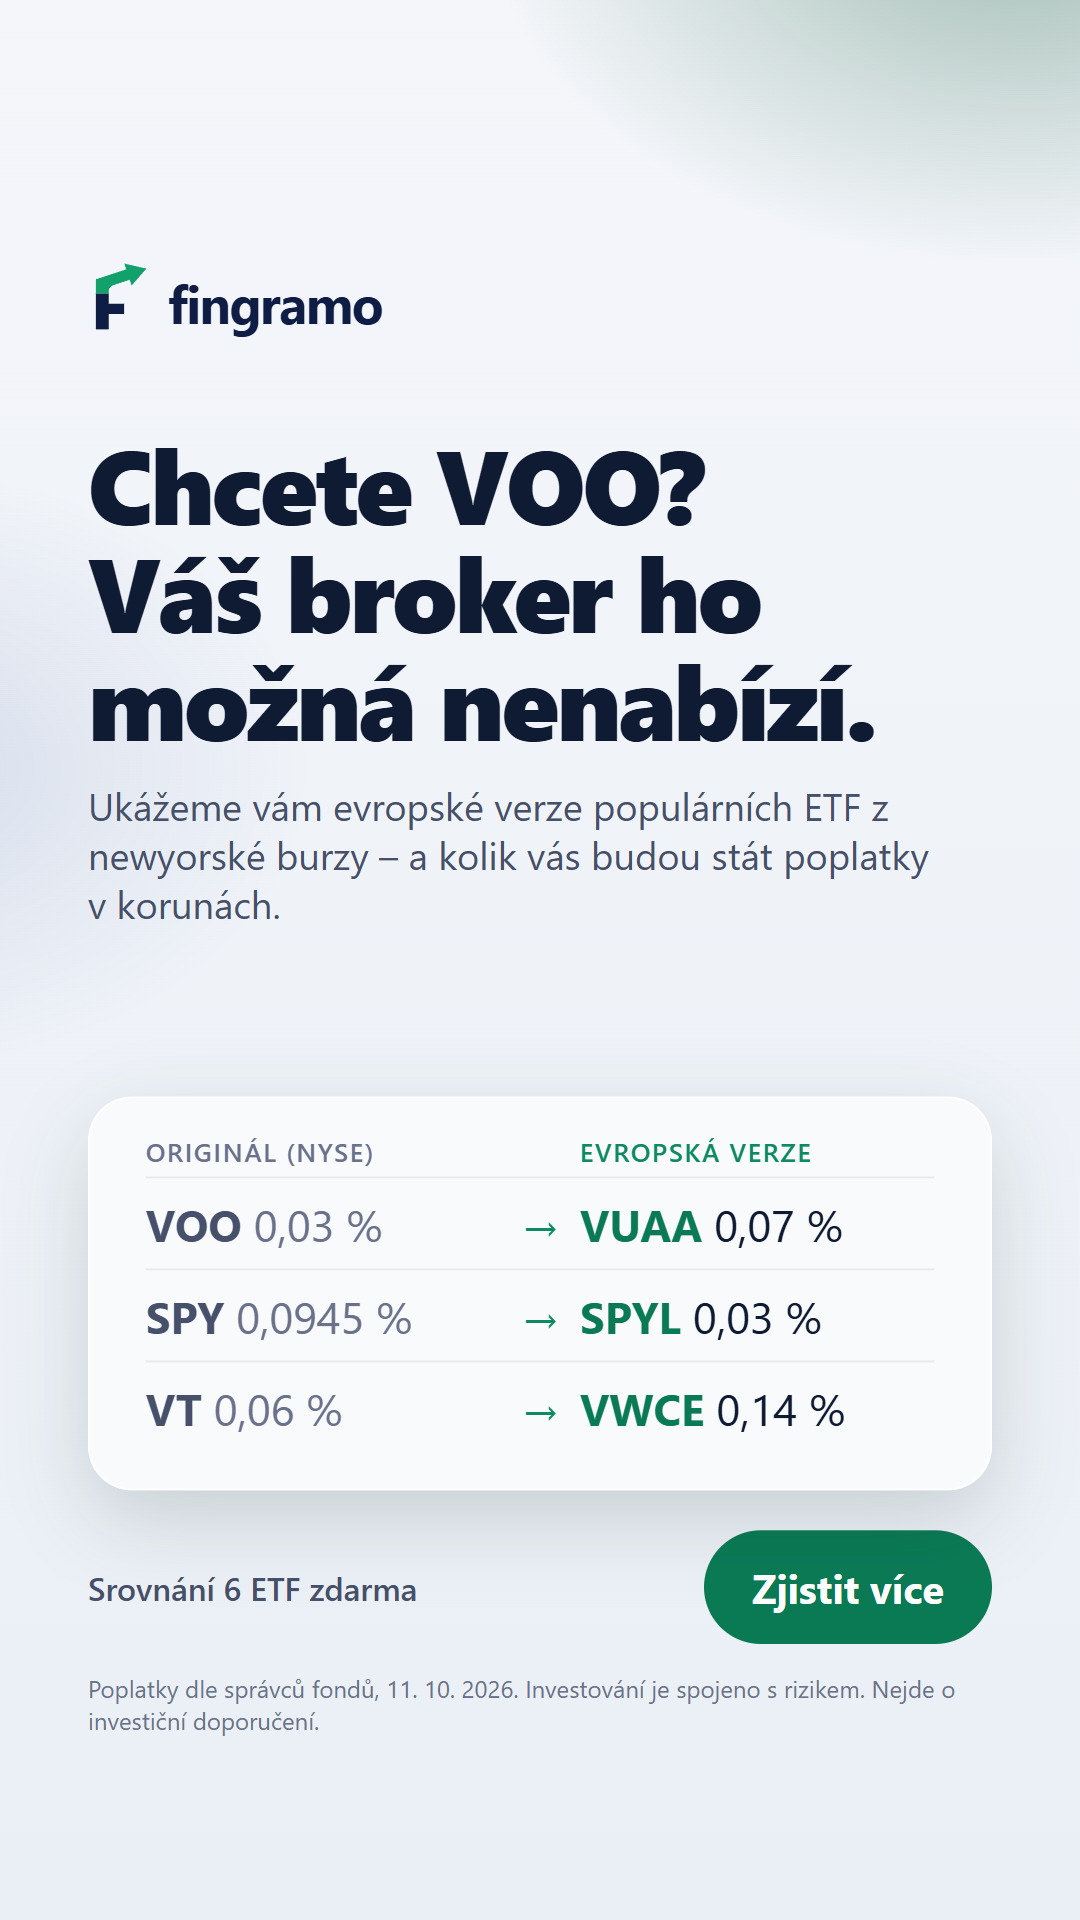
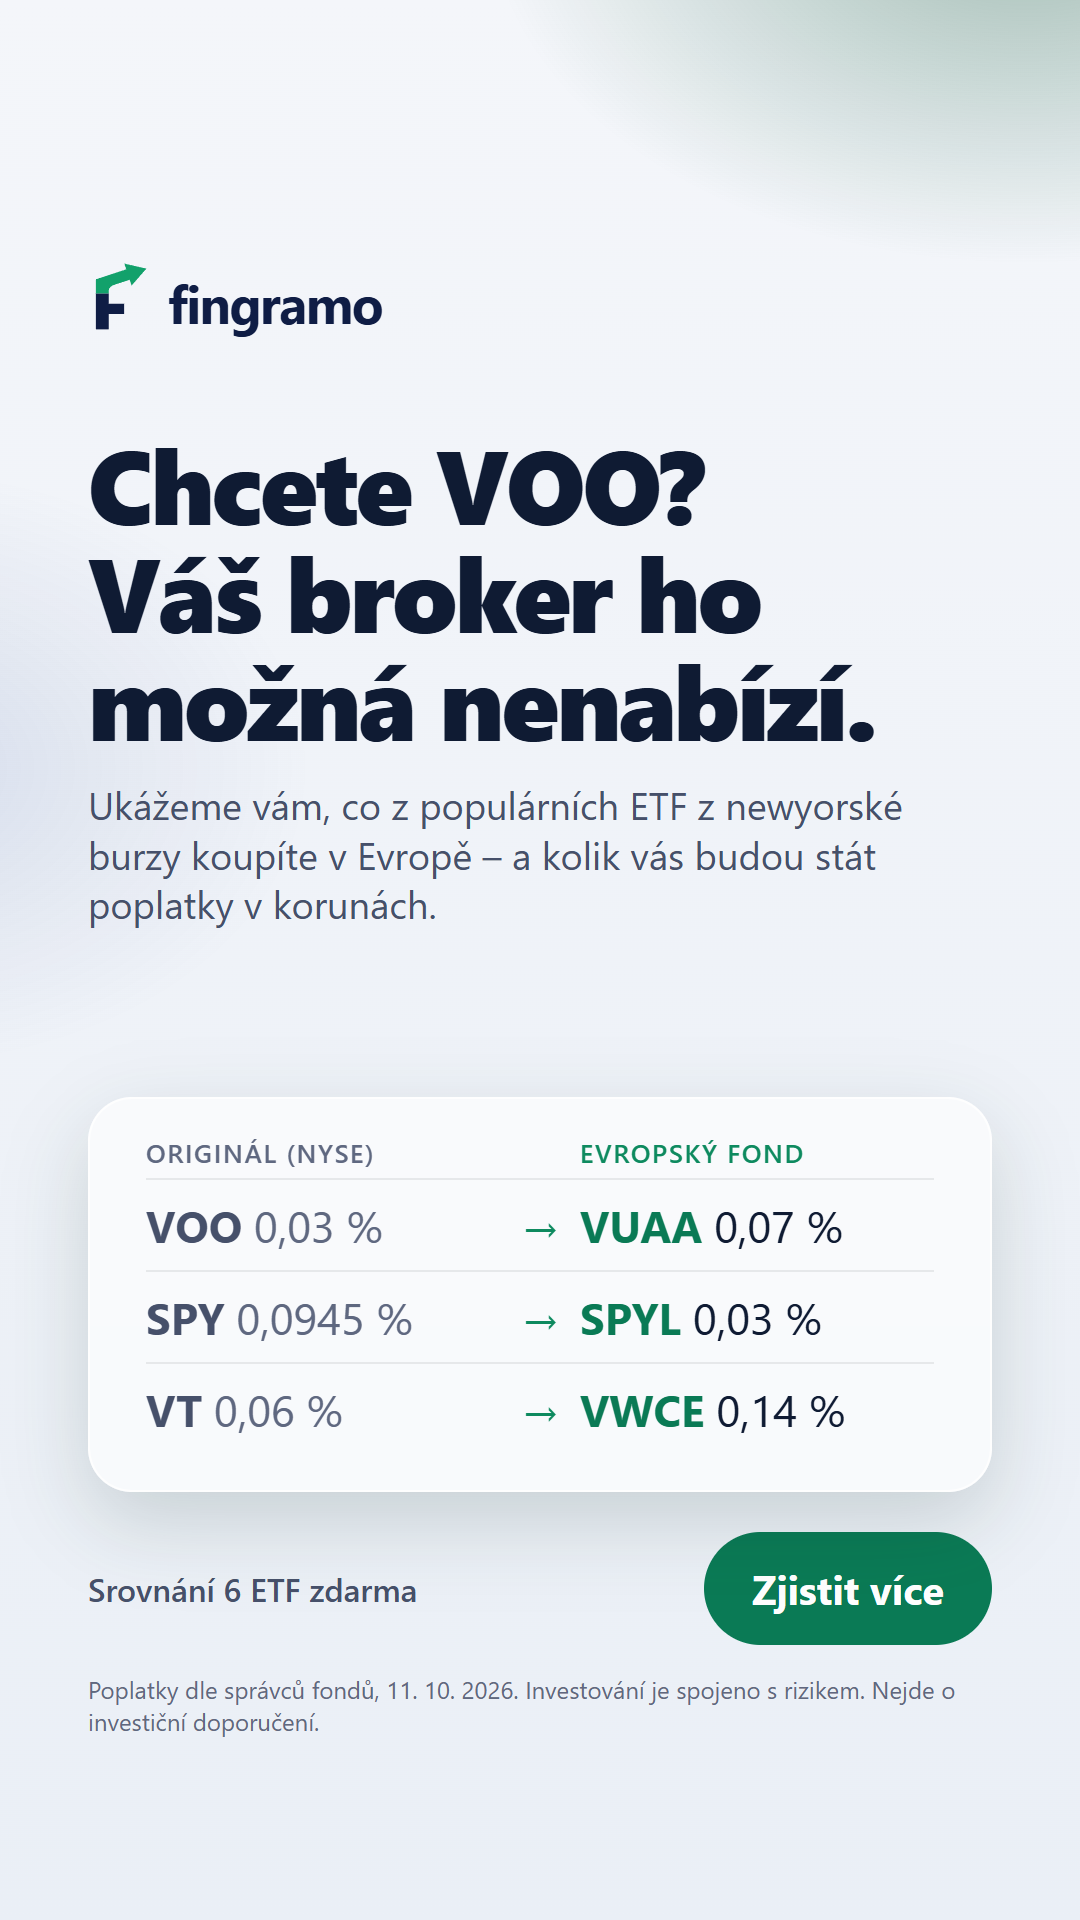
style: reklamy a OG obrázek – „Evropský fond“ místo „Evropská verze“ (VT → VWCE je alternativa, D39), OG „verzí a alternativ“, reklama B 4:5 bez velké mezery pod podtitulem; všech 5 obrázků znovu vykresleno

diff --git a/ads/src/ad.html b/ads/src/ad.html
@@ -52,6 +52,7 @@
   .pill { background: var(--c-green-800); color: #fff; font-size: 40px; font-weight: 700; padding: 30px 48px; border-radius: 999px; }
   .free { font-size: 32px; color: var(--c-ink-muted); font-weight: 600; }
   .legal { font-size: 24px; color: var(--c-ink-faint); margin: 28px 0 0; }
+  .ad:not(.f9x16) .v-b.headline { margin-top: auto; }
   .v-b { display: none; }
   body.b .v-a { display: none; }
   body.b .v-b { display: block; }
@@ -67,16 +68,16 @@
     <!-- A: pain angle -->
     <div class="v-a">
       <h1>Chcete VOO?<br/>Váš broker ho možná nenabízí.</h1>
-      <p class="sub">Ukážeme vám evropské verze populárních ETF z newyorské burzy – a kolik vás budou stát poplatky v korunách.</p>
+      <p class="sub">Ukážeme vám, co z populárních ETF z newyorské burzy koupíte v Evropě – a kolik vás budou stát poplatky v korunách.</p>
     </div>
     <!-- B: numbers angle -->
-    <div class="v-b">
+    <div class="v-b headline">
       <h1>Stejný index S&amp;P&nbsp;500.<br/>Jiný poplatek.</h1>
       <p class="sub">Kolik to dělá v korunách u vaší částky? Spočítejte si to za 10 vteřin.</p>
     </div>
 
     <div class="card v-a" id="pairs">
-      <div class="label"><span>Originál (NYSE)</span><span></span><span>Evropská verze</span></div>
+      <div class="label"><span>Originál (NYSE)</span><span></span><span>Evropský fond</span></div>
     </div>
     <div class="card v-b">
       <div class="duel" id="duel"></div>

diff --git a/ads/src/og.html b/ads/src/og.html
@@ -48,7 +48,7 @@
         <span>fingramo</span>
       </div>
       <h1>Stejný index,<br />jiný poplatek.</h1>
-      <p class="sub">Kolik vás stojí ETF z newyorské burzy v korunách? Srovnání 6 fondů a jejich evropských verzí zdarma.</p>
+      <p class="sub">Kolik vás stojí ETF z newyorské burzy v korunách? Srovnání 6 fondů a jejich evropských verzí a alternativ zdarma.</p>
     </div>
     <div class="card">
       <p class="cap-top">Stejný index S&amp;P 500</p>

diff --git a/ads/README.md b/ads/README.md
@@ -1,6 +1,7 @@
 # Reklamy – Meta (Instagram / Facebook), mobil
 
 **Stav:** texty SCHVÁLENY Mikym 11. 10. 2026 (D18). Vizuály hotové (11. 10.): `ad-a-4x5.png`, `ad-a-9x16.png`, `ad-b-4x5.png`, `ad-b-9x16.png`. Zdroj: `ads/src/ad.html` – stejné tokeny jako stránka, čísla načtená z `data/etf.json` (žádné ručně opsané). Render: Playwright, 1080×1350 a 1080×1920.
+**Úprava 12. 10. (na Mikyho pokyn):** vizuál A – sloupec „Evropský fond“ a podtitul „Ukážeme vám, co z populárních ETF z newyorské burzy koupíte v Evropě…“; vizuál B 4:5 – volné místo rozdělené nad nadpis a nad kartu (dřív velká mezera pod podtitulem); OG – „evropských verzí a alternativ“. Texty kampaně (primární text, titulek) beze změny.
 **Náhled pro sdílení (OG, D36):** `ads/src/og.html` → `public/og.png` (1200×630), stejný přístup a data, navazuje na verzi B.
 Kanál a úhly: D6. Tón: vykání (D7). Žádné sliby výnosů, každé číslo ze `data/SOURCES.md`.
 
@@ -12,7 +13,7 @@ Obě verze nabízejí **totéž** (zdarma srovnání ETF + poplatky v Kč). Liš
 
 | Prvek | Text |
 |---|---|
-| **Vizuál (4:5, 1080×1350)** | Velký nápis: **„Chcete VOO? Váš broker ho možná nenabízí."** · karta: VOO, SPY, VT → jejich evropské verze s poplatky · dole „Srovnání 6 ETF zdarma" · upozornění na riziko. *(Přeškrtnutí tickerů z návrhu vypuštěno – naznačovalo by, že fond koupit nejde vůbec, což neplatí, viz Fio.)* |
+| **Vizuál (4:5, 1080×1350)** | Velký nápis: **„Chcete VOO? Váš broker ho možná nenabízí."** · karta: VOO, SPY, VT → evropský fond s poplatky (nadpis sloupce „Evropský fond“, protože VT → VWCE je alternativa s jiným indexem, D39) · dole „Srovnání 6 ETF zdarma" · upozornění na riziko. *(Přeškrtnutí tickerů z návrhu vypuštěno – naznačovalo by, že fond koupit nejde vůbec, což neplatí, viz Fio.)* |
 | **Primární text** | Viděli jste na sociálních sítích VOO nebo SPY, ale u svého brokera je nenajdete? Důvod je jednoduchý: americké fondy obvykle nemají dokument KID, který evropská pravidla pro drobné investory vyžadují. Ukážeme vám, které evropské verze sledují stejný index – a kolik vás budou stát poplatky v korunách. Zdarma. |
 | **Titulek** | Hledáte VOO? Tady je evropská verze. |
 | **Popis** | Srovnání 6 ETF z NYSE · data od správců |
